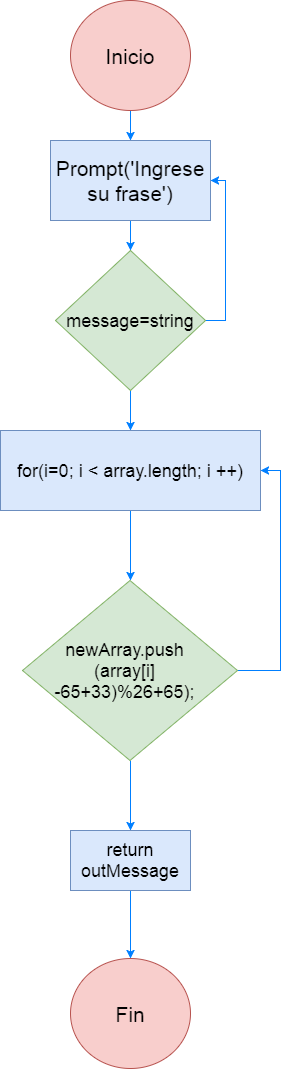
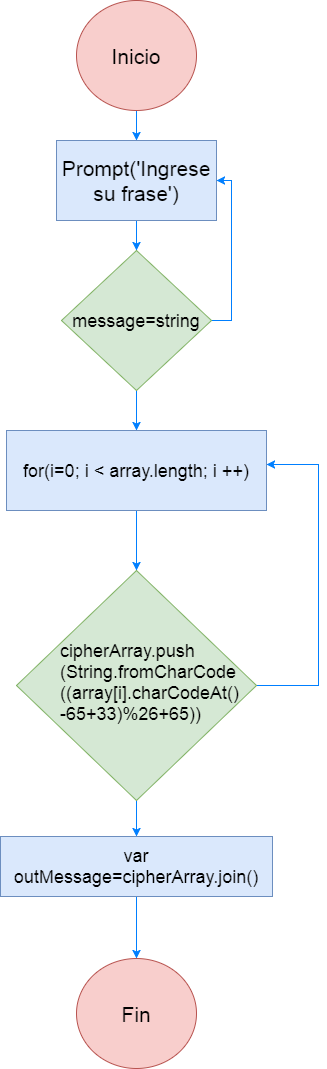
cifrado funcionando

diff --git a/ciphered_caesar/js/app.js b/ciphered_caesar/js/app.js
@@ -1,30 +1,36 @@
-
 // Enviar mensaje al usuario
-var message = prompt('Introduce la frase a cifar');
-if(message===null && message ===isNan()){
-  alert ('Introduce una frase válida ');
-}
+  var message = prompt('Introduce la frase a cifar');
+  if(message===null && message ===isNan){
+    alert ('Introduce una frase válida ');
+  }
 
-//crear función de cifrado
-var cipher = function (message){
   //declarar los arreglos que usaremos
-var array = message;
-var newArray=[];
-//creamos el for para recorrer el arreglo en él aplicaremos la fórmula
-  for(i = 0;i <array.length;i ++){
-    /*en newArray iremos aumentando los valores que recorramos con la fórmula de cifrado;
-    al array original aplicaremos la formula de cifrado césar, para esto deberemos convertir los caracteres en ascii
-    y cuando se aplique la fórmula se debe devolver a caracter.
-Entonces, si quisieras desplazar la "A" tres espacios, deberías hacer lo siguiente:
-Convertir “A” en un ordinal (65).
-Sumar 3 a 65, para obtener 68.
-Reconvertir el ordinal 68 a la letra correspondiente (“D”).
-(x-65+n)%26+65*/
-    newArray.push((charCodeAt.array[i]-65+33)%26+65);/*se debe usar String.fromCharCode para devolver a caracter*/
-       //declaramos la variable para imprimir el mensaje en pantalla
-       var outMessage=newArray;
+  var array = message;
+  var cipherArray=[];
+  var decipherArray=[];
+
+  //crear función de cifrado
+  var cipher = function (message){
+  //creamos el for para recorrer el arreglo en él aplicaremos la fórmula
+    for(i = 0;i <array.length;i ++){
+      /*en newArray iremos aumentando los valores que recorramos con la fórmula de cifrado al array original aplicaremos la formula de cifrado césar, para esto deberemos convertir los caracteres en ascii y cuando se aplique la fórmula se debe devolver a caracter.*/
+      cipherArray.push(String.fromCharCode((array[i].charCodeAt()-65+33)%26+65));/*se debe usar String.fromCharCode para devolver a caracter*/
+         //declaramos la variable para imprimir el mensaje en pantalla
+         var outMessage=cipherArray.join();
+       }
+       return alert('Tu frase cifrada es: '+outMessage);
      }
-     return outMessage;
-   }
-  //Llamamos a nuestra función
-   cipher(message);
+    //Llamamos a nuestra función
+     cipher (message);
+
+  var decipher=function(message){
+
+    //(x - n) % 26
+
+    for(j=0;j<array.length;j++){
+      decipherArray.push(String.fromCharCode((array[j].charCodeAt-33)%26));
+      var impMessage=decipherArray;
+    }
+    return alert('Tu frase descifrada es: '+impMessage);
+  }
+  decipher(message);

diff --git a/ciphered_caesar/index.html b/ciphered_caesar/index.html
@@ -5,12 +5,7 @@
     <title>Cifrado César</title>
   </head>
   <body>
-    <script type="text/javascript" src="js\app.js">
-
-    </script>
     <h1>Cifrado César</h1>
-
-
-
+    <script type="text/javascript" src="js\app.js"></script>
   </body>
 </html>

diff --git a/ciphered_caesar/README.md b/ciphered_caesar/README.md
@@ -4,12 +4,11 @@
 1. Enviar un prompt al usuario quien introducirá la frase a cifrar
 2. Si el usuario no introduce ningún valor o introduce un valor númerico se devolvera un alert de error
 3. Si es una frase entonces pasamos a recorrer el arreglo
-4. Se declara la función cipher la cual cifrará la frase del usuario
-5. Se declaran dos arreglos el primero contendrá la frase del usuario y el otro será la que guarde el nuevo arreglo
-conel cifrado realizado
-6. Comenzaremos a recorrer el arreglo, con la longitud del primer arreglo
-7. Se deberan ir agregando los valores en un nuevo arreglo donde se almacenara la posición que les corresponde del cifrado césar
-8. Se aplica la fórmula de cifrado César al arreglo original
+4. Se declaran los arreglos que se usarán en el programa
+5. Se crea la función de cifrado
+6. Comenzaremos a recorrer el arreglo, con la frase introducida por el usuario
+7. Se convierten los elementos del arreglo a ascii y aplicar la fórmula de cifrado César
+8. Despues de aplicar la fórmula y que los valores esten guardados en ascii se deberá retornar a caracter
 9. Los resultados se mostrarán en una nueva variable que será la que permita visualizarlo en pantalla
 10. Fin
 
